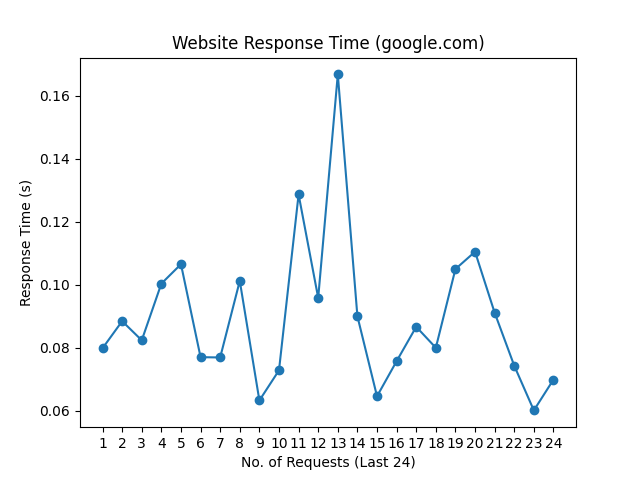
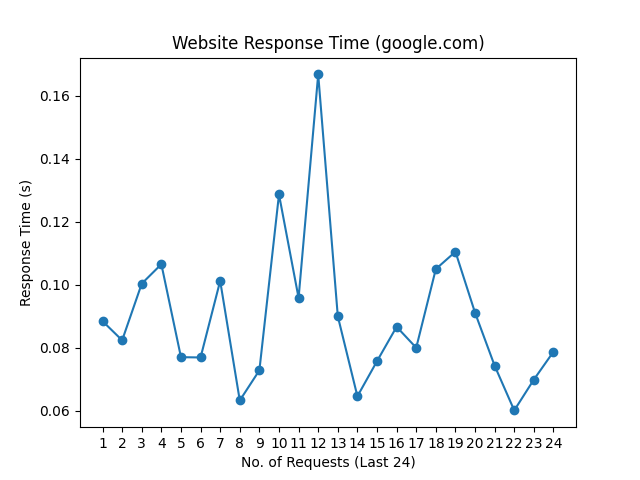
update README.md, history and graph

Changed region(s): [[0.1562, 0.125, 0.875, 0.875]]

diff --git a/README.md b/README.md
@@ -1,10 +1,10 @@
 # Web Monitoring
 
-Last Checked: 05/03/2024 08:59
+Last Checked: 06/03/2024 08:59
 
 | Website | Response Time (s) | Status | Avg Uptime (%) |
 |---------|-------------------|--------|----------------|
 | www.thiswebsiteisdown.net | 0 <br> <img src="graph/thiswebsiteisdown.net.png" alt="Graph" width="200" height="200">  | ❌ Down | 0.00 |
-| www.netflix.com | 0.383517 <br> <img src="graph/netflix.com.png" alt="Graph" width="200" height="200">  | ✅ Up | 100.00 |
-| www.google.com | 0.069959 <br> <img src="graph/google.com.png" alt="Graph" width="200" height="200">  | ✅ Up | 100.00 |
-| www.facebook.com | 0.299652 <br> <img src="graph/facebook.com.png" alt="Graph" width="200" height="200">  | ✅ Up | 100.00 |
+| www.netflix.com | 1.057340 <br> <img src="graph/netflix.com.png" alt="Graph" width="200" height="200">  | ✅ Up | 100.00 |
+| www.google.com | 0.078808 <br> <img src="graph/google.com.png" alt="Graph" width="200" height="200">  | ✅ Up | 100.00 |
+| www.facebook.com | 0.544436 <br> <img src="graph/facebook.com.png" alt="Graph" width="200" height="200">  | ✅ Up | 100.00 |
